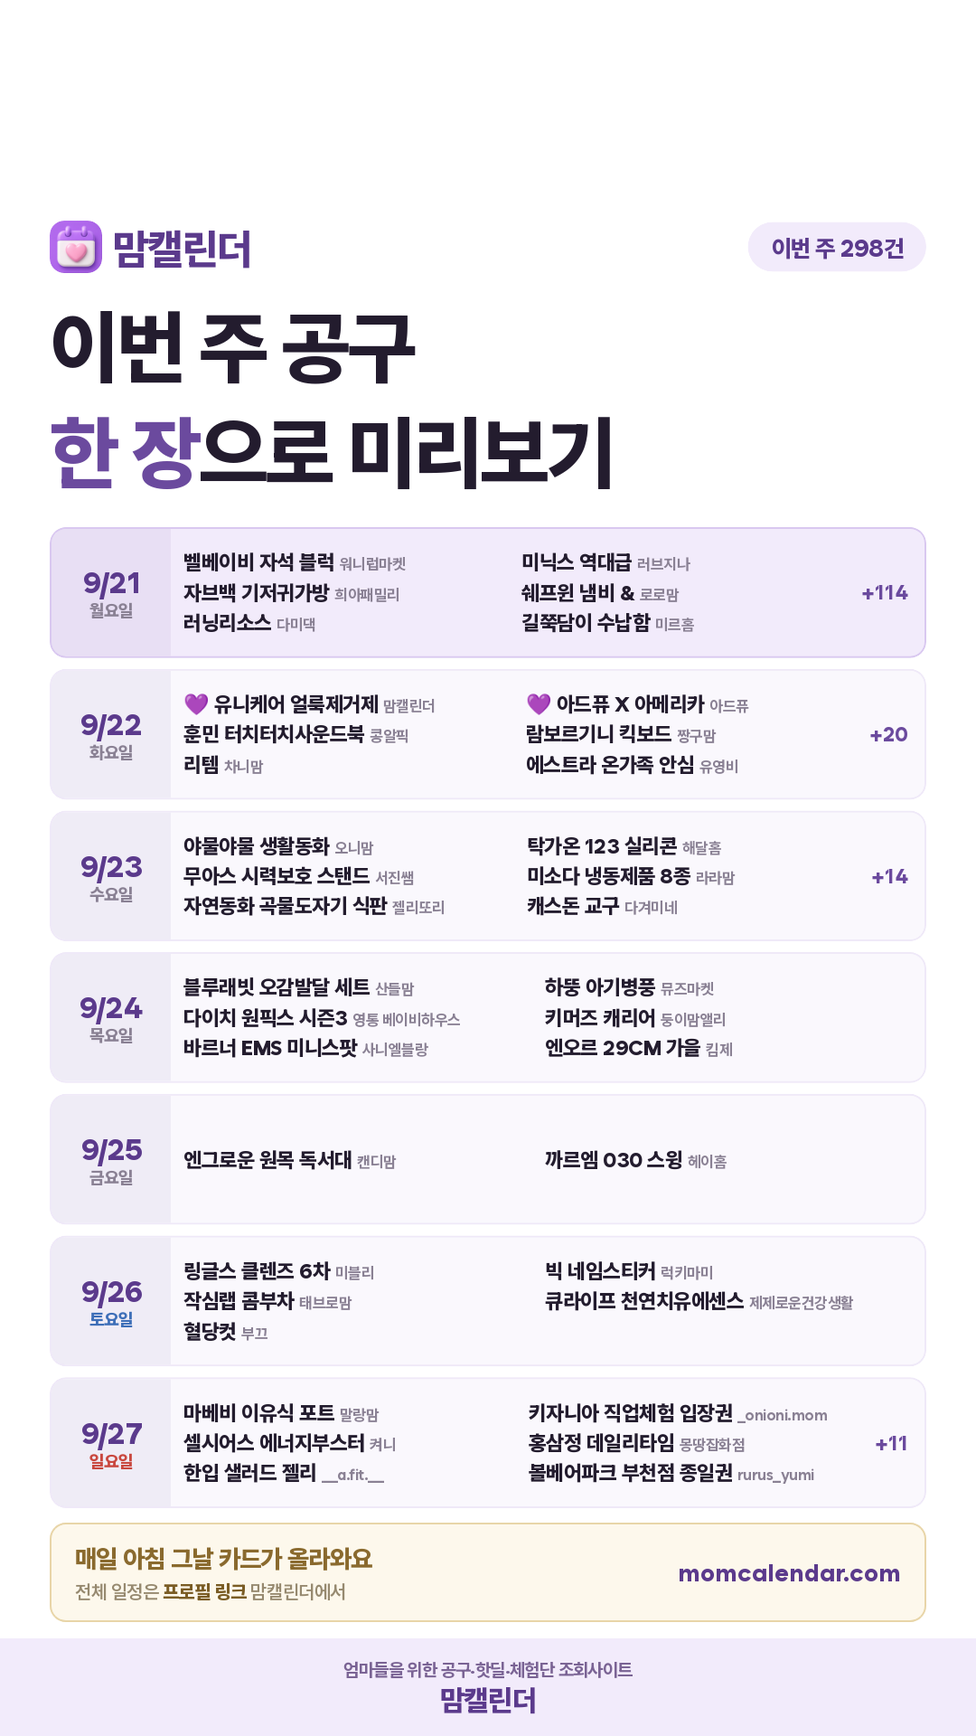
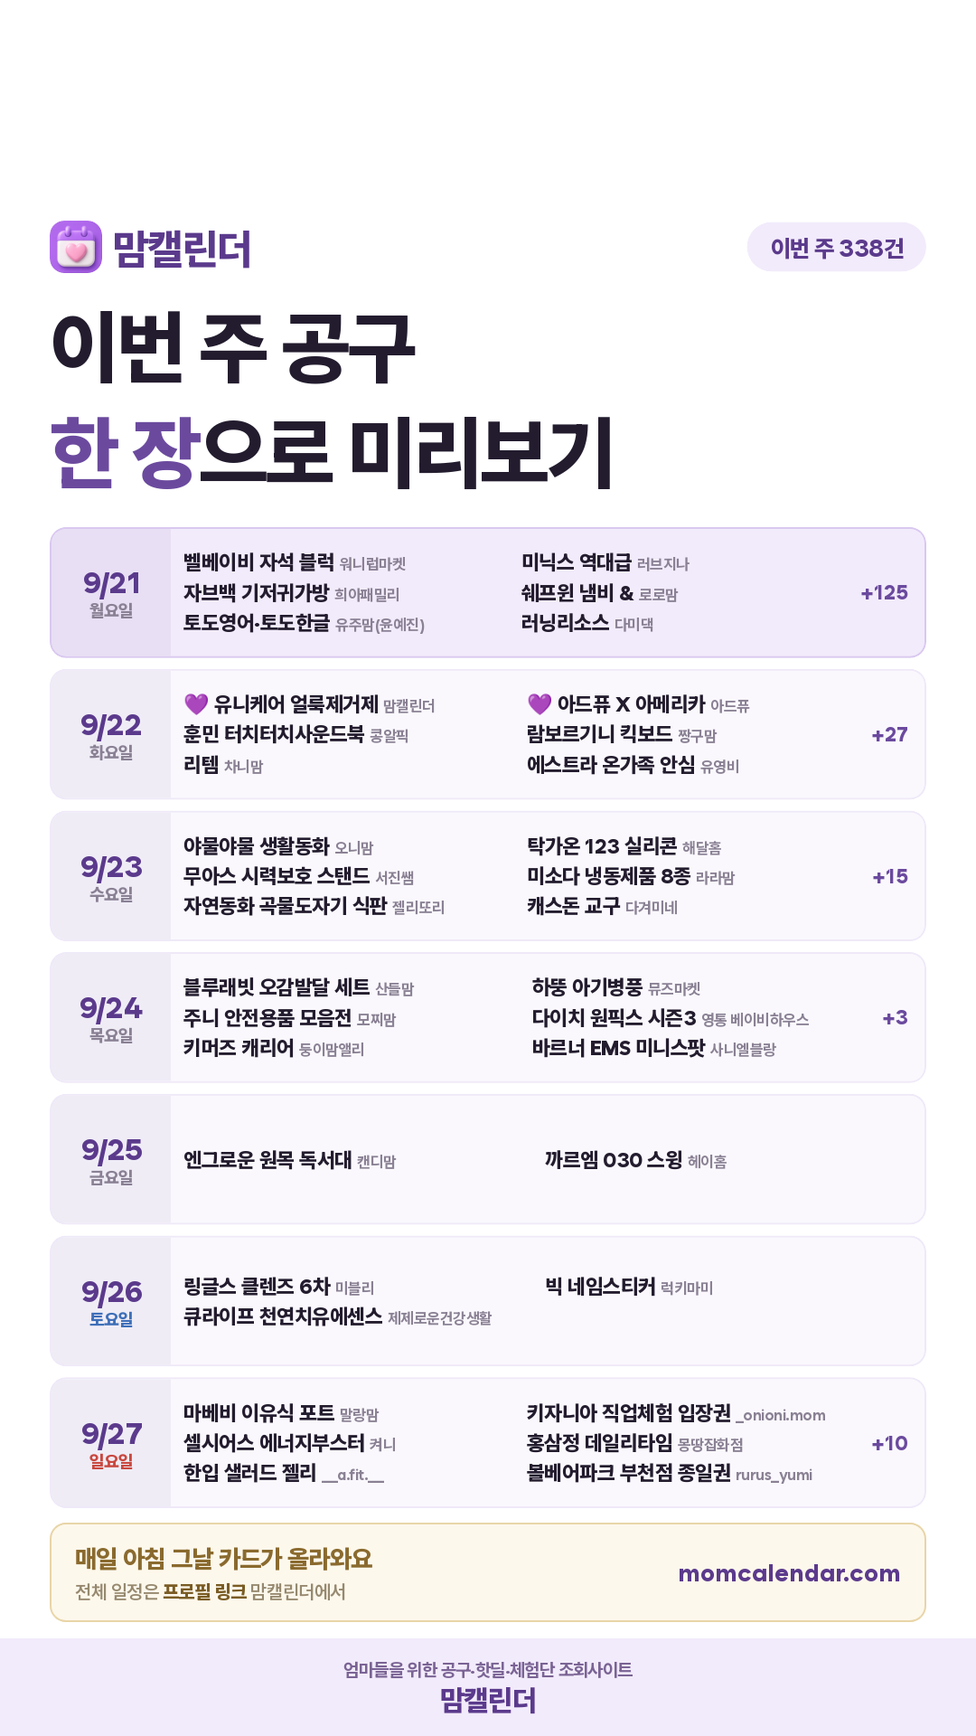
아침 인스타 카드 (2026-09-21)

diff --git a/daily/2026-09-21.html b/daily/2026-09-21.html
@@ -19,7 +19,7 @@ textarea{width:100%;height:260px;border:1px solid #E3DCEF;border-radius:10px;pad
 .todo p{font-size:12.5px;color:#6B6379;line-height:1.75;margin-top:6px}
 .todo a{color:#5B2E8C;font-weight:700}
 </style></head><body>
-<div class="hd"><div class="wrap"><h1>9월 21일(월) 인스타 카드</h1><p>주간예고 · week 298</p></div></div>
+<div class="hd"><div class="wrap"><h1>9월 21일(월) 인스타 카드</h1><p>주간예고 · week 338</p></div></div>
 <div class="wrap">
   
   <div class="card"><img src="./2026-09-21.png" alt="오늘 공구 카드"></div>
@@ -27,7 +27,7 @@ textarea{width:100%;height:260px;border:1px solid #E3DCEF;border-radius:10px;pad
   <div class="card">
     <textarea id="cap" readonly>월요일 아침 루틴 — 이번 주 공구 미리보기예요
 
-이번 주(9/21~9/27) 오픈 예정 298건
+이번 주(9/21~9/27) 오픈 예정 338건
 
 ━━━━━━━━━━━━━━
 
@@ -36,19 +36,19 @@ textarea{width:100%;height:260px;border:1px solid #E3DCEF;border-radius:10px;pad
 · 미닉스 역대급 — 러브지나
 · 자브백 기저귀가방 — 희아패밀리
 · 쉐프윈 냄비 &amp; 후라이팬 — 로로맘
+· 토도영어·토도한글 — 유주맘(윤예진)
 · 러닝리소스 — 다미댁
 · 길쭉담이 수납함 — 미르홈
+· 아기 안전장치 — 가을이네
 · 키즈위드 이야기시네마 플러스 그림자극장 — 우유맘
 · 로슬러실링팬 — 러브율홈
 · 보드게임 토들러 — 온이프홈
-· 토도영어·토도한글 — 유주맘(윤예진)
-· 아기 안전장치 — 가을이네
 · 브리테니커 호기심백과 — 명희홈쿡
 · 돌잡이시리즈 — 유림
 · 비지베어 A B세트 — 누누맘
 · 베투키 키즈 오메가3 — 다니맘
 · 휴비딕 네뷸라이저 — 또마맘
-…외 104건
+…외 115건
 
 🗓 9/22(화) 오픈
 · 유니케어 얼룩제거제 — 맘캘린더 @momcal_
@@ -66,8 +66,7 @@ textarea{width:100%;height:260px;border:1px solid #E3DCEF;border-radius:10px;pad
 · 킨즈n르베르 원목교구 — 리아곰
 · 주니 기저귀팬티 — 애프리
 · 리틀피기 가을 신상 런칭 — 두둥맘
-· 테라큐민 — 은하약사
-…외 10건
+…외 18건
 
 🗓 9/23(수) 오픈
 · 야물야물 생활동화 — 오니맘
@@ -85,15 +84,18 @@ textarea{width:100%;height:260px;border:1px solid #E3DCEF;border-radius:10px;pad
 · 주니 벨리곰 빨대컵 — 뚝딱맘
 · 주니 도라에몽 미니텀블러 1+1 — 주원맘
 · 베이비앙 국내생산 배변팬티 — 치즈맘
-…외 5건
+…외 6건
 
 🗓 9/24(목) 오픈
 · 블루래빗 오감발달 세트 — 산들맘
 · 하뚱 아기병풍 — 뮤즈마켓
+· 주니 안전용품 모음전 — 모찌맘
 · 다이치 원픽스 시즌3 에어 — 영통 베이비하우스
 · 키머즈 캐리어 — 둥이맘앨리
 · 바르너 EMS 미니스팟 — 사니엘블랑
 · 엔오르 29CM 가을 쇼케이스 — 킴제
+· 망고라이언 자존감 올림 동화 — 우니동동
+· 슈슈비 클립매트 인상 전 — 남다름
 
 🗓 9/25(금) 오픈
 · 엔그로운 원목 독서대 — 캔디맘
@@ -102,9 +104,7 @@ textarea{width:100%;height:260px;border:1px solid #E3DCEF;border-radius:10px;pad
 🗓 9/26(토) 오픈
 · 링글스 클렌즈 6차 마켓 — 미블리
 · 빅 네임스티커 — 럭키마미
-· 작심랩 콤부차 — 태브로맘
 · 큐라이프 천연치유에센스 — 제제로운건강생활
-· 혈당컷 — 부끄
 
 🗓 9/27(일) 오픈
 · 마베비 이유식 포트 — 말랑맘
@@ -119,7 +119,6 @@ textarea{width:100%;height:260px;border:1px solid #E3DCEF;border-radius:10px;pad
 · 에스테틱전용 아오와 선크림 &amp; 선에센스 — 령아홈트
 · 노엘로힐스 아기&amp;어린이 스킨케어 — 떠윤맘
 · 퓨리톡스 멀티 세정 티슈 7차 — 그집1303
-· 리틀콩 실내복 — 하온맘
 · 리슬립 올데이 케어세트 — 루니맘
 · 라운데이 행주 — 홈이분의일
 …외 2건
@@ -143,12 +142,12 @@ textarea{width:100%;height:260px;border:1px solid #E3DCEF;border-radius:10px;pad
 ⚠ 공구 일정은 판매자 사정에 따라 변경·조기마감될 수 있어요.
 
 #맘캘린더 #공구일정 #육아공구 #9월21일공구 #교구 #책육아 #공동구매 #육아템 #아기간식 #유아용품 #신학기준비 #살림템</textarea>
-    <div class="meta">2176자</div>
+    <div class="meta">2185자</div>
     <button class="btn btn2" onclick="cp('cap','캡션')">캡션 복사</button>
   </div>
   <div class="card">
     <div class="meta" style="margin:0 0 8px;font-weight:800;color:#5B2E8C">네이버 블로그용 (blog.naver.com/momcal) — 수정해서 쓰셔도 돼요</div>
-    <textarea id="btitle" style="height:54px">9월 21일(월) 9월 공구일정 진행중인 곳 | 레꼴뜨 무선·로슬러실링팬·리큅·미닉스·샤크 공구 오픈</textarea>
+    <textarea id="btitle" style="height:54px">9월 21일(월) 9월 공구일정 진행중인 곳 | 데코아르 에어건·레꼴뜨 무선·로슬러실링팬·리큅 공구 오픈</textarea>
     <button class="btn btn2" onclick="cp('btitle','블로그 제목')">블로그 제목 복사</button>
     <textarea id="bbody" style="margin-top:9px">
 
@@ -175,10 +174,10 @@ https://open.kakao.com/o/gr2kJhCh
 
 ─────────────
 
-9월 21일(월) 공구 일정이에요. 오늘 오픈하는 156건을 한 번에 모았어요.
-오늘 마감되는 공구도 137건 있으니 놓치지 마세요.
+9월 21일(월) 공구 일정이에요. 오늘 오픈하는 174건을 한 번에 모았어요.
+오늘 마감되는 공구도 161건 있으니 놓치지 마세요.
 
-■ 오늘 시작하는 공구 156건
+■ 오늘 시작하는 공구 174건
 
 [육아]
 · [밴밧] 호프 카미러 — 푸푸네 (~9/24 마감)
@@ -187,9 +186,10 @@ https://open.kakao.com/o/gr2kJhCh
 · 니도 — 라온 (~9/24 마감)
 · 데코아르 폴딩 미니 웨건 — 마드앤룸 (~9/24 마감)
 · 돌잡이 &amp; 빅키즈 — 송엘라 (~9/27 마감)
+· 돌잡이 시리즈 — 하온맘 (~9/27 마감)
 · 돌잡이 시리즈 — 이나마미 (~9/27 마감)
-· 돌잡이 전집 시리즈 — 뮤즈마켓 (~9/27 마감)
 · 돌잡이 전집 시리즈 — 뮤즈언니 (~9/27 마감)
+· 돌잡이 전집 시리즈 — 뮤즈마켓 (~9/27 마감)
 · 돌잡이·빅키즈 — 워니럽마켓 (~9/27 마감)
 · 돌잡이시리즈 — 유림 (~9/27 마감)
 · 러닝리소스 — 다미댁 (~9/24 마감)
@@ -198,6 +198,7 @@ https://open.kakao.com/o/gr2kJhCh
 · 룩트 킨디 — 다겨미네 (~9/24 마감)
 · 리라그루브 색연필 — 산들맘 (~9/24 마감)
 · 리라그루브·프로살림 자동연필깎이 — 나니맘 (~9/24 마감)
+· 마더케이 — 헤이다다 (~9/28 마감)
 · 마이리틀 경제동화 — 서점맘 (~9/28 마감)
 · 맘스보드 레브하우스 2차 — 젤리또리 (~9/24 마감)
 · 몸 속을 비춰봐 — 류둥이네 (~9/24 마감)
@@ -228,6 +229,8 @@ https://open.kakao.com/o/gr2kJhCh
 · 엑사이더 런닝바이크 15차 — 헬썬 (~9/25 마감)
 · 여원 창작동화 전집 — 쀼맘 (~9/28 마감)
 · 올림포스 가디언 — 리틀주니 (~9/23 마감)
+· 올유베베 — 태브로맘 (~9/23 마감)
+· 우리아이채수 — 따리따리 (~9/23 마감)
 · 자브백 기저귀가방 — 희아패밀리 (~9/24 마감)
 · 주니 실리콘 흡착 이유식 식기 — 무끼 (~9/24 마감)
 · 주니 안전템 모음 — 벨라하우스 (~9/23 마감)
@@ -247,40 +250,50 @@ https://open.kakao.com/o/gr2kJhCh
 · 핀덴 그림자동화·병풍·사운드카 — 미쁘주 (~9/28 마감)
 · 훈민 스티커북 — 콩알픽 (~9/27 마감)
 · 훈민 실사진 스티커북 — 소프트모노 (~9/24 마감)
+· 훈민 올어바웃 마이바디 + 뼈차트도안 — 도하맘 (~9/24 마감)
 · 휴비딕 네뷸라이저 — 또마맘 (~9/23 마감)
 
 [리빙]
+· 10월 인상 전 마지막, 엔에프락 — 솔트마망 (~9/24 마감)
 · AGK 노르딕 멀티 3종 밀폐용기 — 햇림 (~9/27 마감)
 · 갓템 캡슐 세탁세제 — 송송마켓 (~9/26 마감)
 · 경추회전+승모근지압+상/중/하 거북목 견인기 — 윤지쌤 (~9/27 마감)
+· 길이조절 팬 정리대 — 마마홈 (~9/24 마감)
 · 길쭉담이 수납함 — 미르홈 (~9/28 마감)
 · 노르딕슬립 침구 — 곰부인네 (~9/24 마감)
 · 도조메 비쉬 체크나이프 — 맘이가요 (~9/27 마감)
+· 디어커스 더스트라 크리너 — 마리에뜰 (~9/27 마감)
 · 라비킷 베개 모음전 — 모찌맘 (~9/24 마감)
 · 매직캔 쓰레기통 2차 — 다니맘 (~9/23 마감)
 · 바리바디 마사지스틱·볼 4차 — 매일부엌 (~9/24 마감)
 · 벨르썸 라치우드 도마 — 투찬이네 (~9/27 마감)
 · 쉐프윈 냄비 &amp; 후라이팬 — 로로맘 (~9/24 마감)
+· 스토피아 올스텐 욕실용품 — 밥설공주 (~9/24 마감)
 · 아이언애스 세탁세제 — 해피엘 (~9/24 마감)
 · 아클리브 보호필름 2차 — 르미뇽살림 (~9/24 마감)
+· 알텐바흐 메이우드 — 마리에뜰 (~9/27 마감)
 · 엔에프락 — 아무르제이 (~9/27 마감)
 · 올스텐 주방살림 Best — 류니 (~9/24 마감)
 · 위칙 소독 세탁세제·유연제 — 사는게예술 (~9/28 마감)
 · 윗클 — 책육아 우주맘 (~9/24 마감)
 · 윙플라 5차 — 아롱레시피 (~9/24 마감)
+· 일본 마나 기획전 — 헬룸 (~9/27 마감)
 · 주니 멀티컵 — 우유맘 (~9/23 마감)
 · 트로마츠 미세전류 칫솔 — 엄마로라 (~9/27 마감)
 · 프리파라 브루클린 반찬통 오늘의집 기획전 — 하얀쿡 (~9/30 마감)
 
 [식품]
 · 곡물도감 두유 그래놀라 — 서진쌤 (~9/24 마감)
+· 라꽁비에뜨 무염&amp;가염버터 — 또후니맘 (~9/27 마감)
 · 로지오가닉 배도라지즙 &amp; 아기보리차 — 쓸맘유진 (~9/24 마감)
+· 모두의육수 — 차차식탁 (~9/24 마감)
 · 무무칩 15차 — 시온이네 (~9/24 마감)
 · 무밀무설 — 다루세상 (~9/24 마감)
 · 밀키요 요거트 — 서연맘 (~9/24 마감)
 · 뼈 육수 — 푸드리셋 (~9/27 마감)
 · 오르조워터 — 베라킴 (~9/23 마감)
 · 올리브오일, 서해한과 — 리후랜드 대표 (~9/24 마감)
+· 우잇 특별 — 엘쓰맘 (~9/24 마감)
 · 위드잇 아이카레/아이짜장 — 명희홈쿡 (~9/27 마감)
 · 제로 소시지 2차 — 시니맘 (~9/24 마감)
 · 하늘마켓 추석 기획전 — 하늘 (~9/28 마감)
@@ -288,8 +301,8 @@ https://open.kakao.com/o/gr2kJhCh
 · 화덕브레드 — minjoy_____ (~9/25 마감)
 
 [건강]
-· 곰보배추시럽 — 김밀키 (~9/30 마감)
 · 곰보배추시럽 — 러블리맘 (~9/27 마감)
+· 곰보배추시럽 — 김밀키 (~9/30 마감)
 · 그로우뉴 데이프로바 — 돼지수 (~9/23 마감)
 · 나잇밤 — 아디언니 (~9/30 마감)
 · 녹십자 베르베린 인텐스 — 오늘약사 (~9/27 마감)
@@ -297,6 +310,7 @@ https://open.kakao.com/o/gr2kJhCh
 · 더블핏 유산균 — 자신있는약상담 (~9/27 마감)
 · 라이트컷 — 곰부인네 (~9/28 마감)
 · 라인쏙 파우더 — 쇼니룸 (~9/23 마감)
+· 리포좀 글루타치온 — 약사비책 (~9/30 마감)
 · 밀리윌리 초유칼마디K2 — 여울맘 (~9/23 마감)
 · 바맘 배도라지즙 특가 — 윤슬라멜맘 (~9/24 마감)
 · 버티젠 — 달달콩 (~9/24 마감)
@@ -321,11 +335,13 @@ https://open.kakao.com/o/gr2kJhCh
 · 홈쇼핑 방영 세인트 프랑 트리트먼트 크림 — coco.han (~9/24 마감)
 
 [가전]
+· 데코아르 에어건 — 시크드 (~9/27 마감)
 · 레꼴뜨 무선 만능초퍼 — 블루밍다다 (~9/23 마감)
 · 레꼴뜨 무선 초퍼 — 베러심플 (~9/24 마감)
 · 로슬러실링팬 — 러브율홈 (~9/24 마감)
 · 리큅 식품건조기 3차 — 묘식당 (~9/27 마감)
 · 미닉스 역대급 — 러브지나 (~9/24 마감)
+· 비쎌 스팀청소기 — 포유홈 (~9/23 마감)
 · 샤크 LC351청소기 — 밀커블 (~9/27 마감)
 · 세척간편 이지클린 가습기 — 수아빈홈 (~9/24 마감)
 · 아토케어 침구청소기 — 우아맘 (~9/24 마감)
@@ -351,24 +367,30 @@ https://open.kakao.com/o/gr2kJhCh
 [인테리어]
 · 맘스보드 책상 — eeodlf (~9/23 마감)
 · 워셔블 러그 — 카루셀리 (~9/27 마감)
+· 워셔블 사계절 러그 — 마마홈 (~9/24 마감)
 · 피보트롤리 — 또비앙 (~9/23 마감)
 
 [반려동물]
 · 으뜸 배변패드 — 개엄마 (~9/27 마감)
 
-■ 오늘 마감하는 공구 137건
+■ 오늘 마감하는 공구 161건
+· 1-2만원대 예쁜 아기옷 — 비나맘
 · 1++ 언양·양념불고기 — ye.96.ye
 · 1만원대 차렵이불 — 채집
 · 247 프레시팩 — 소프트모노
+· 26 호주 오즈웨어 UGG — 유노맘
 · 3만원대 자동센서 휴지통 — 채집
 · DK2 메타리포좀 마그네슘 부스터 — 자신있는약상담
 · Pizza and Taco &amp; Boris 세트 — 로이데일리
 · YDY 베르베린 파이토좀 — 명훈약사
+· 감성을 담은 테이블 웨어 플라또 — 마이리틀타이거
+· 고마운 마음 전하기에 좋은 선물, 오란다 — 션마미마켓
 · 김미떡 — 현영초이스
 · 김미떡 9차 — 밤줌미네
 · 까르엠 모듈 스윙소파 — 살구홈
 · 까이유 NEW 오리지널 보드북 영·한 — 또마맘
 · 꼼데가르송 레드하트 니트 &amp; 가디건 — 뽀이맘
+· 난각 1번 무항생제 계란 — 레이첼꽁
 · 난각1번 유정란 — 장솔비
 · 난각번호 1번 달걀 — 봄주부
 · 내리미 해열크림 — 월간서숲
@@ -386,6 +408,7 @@ https://open.kakao.com/o/gr2kJhCh
 · 땡초맛김 — 진실
 · 라온킴 수제 이유식 큐브 — 에듀맘
 · 레드루트 세탁&amp;주방세제 모음전 — 레이첼꽁
+· 룰라러브 천연해면 — 뭉릉도원이네
 · 룸므 대용량 텀블러 — 송엘라
 · 르베르 스핀360 유모카·트라이크 — 누누홈
 · 리라그루브·울리 문구 — 꽃비니
@@ -402,11 +425,14 @@ https://open.kakao.com/o/gr2kJhCh
 · 미태그 듀얼 위치추적기 — 김선진
 · 미태그 위치추적기 — 이안마미
 · 바겐슈타이거 스텐박스 — 맘캘린더
+· 바나코 룸슬리퍼 — 헬룸
+· 바예호 엑스트라버진 올리브 오일 — 쥬홈
 · 베베쿡 이유식기 최초 — 모찌맘
 · 베비몽 드라이빙백 — 조이
 · 베비몽 드라이빙백 &amp; 맥킹덤 미니 — 쁨마미
 · 베비몽 소프트 말랑블럭 — 트윙클멜로우
 · 보르딘 더치커피 4차 — 몰리짱
+· 보리굴비 — 개엄마
 · 보리굴비 — 부끄
 · 봄동맘 유아 캡슐세제 — 아토네
 · 붓기차 베라수 &amp; 산후조리 황후보감 — 서안맘
@@ -417,29 +443,37 @@ https://open.kakao.com/o/gr2kJhCh
 · 빠이염 — 도치맘
 · 새싹보리굴비 — 밤줌미네
 · 서해한과 — 드엘리사
+· 손으로 만드는 특별한 경험 송편 만들기 키트 — 마이리틀타이거
 · 송편만들기 키트 명절 기획 — 도다미네
 · 슈슈아띠 B급 할인전 — 마마홈
 · 스노우키즈 물감놀이 — 워니메이
+· 스토피아 스텐 기획전 — 다다맘
 · 스파톤 프리미엄 철분제 — 하늘
+· 스프레이오일 &amp; 올리브유, 현미유 — 희야
 · 시서례 국어문제집 — 찬우맘
 · 시크 아이폴드2 — 우니동동
 · 실버스타 무연마 316 찜기 — 살림구조대
 · 심플리티 킥보드 — 해모비
 · 쌀보리 가을 실내복 겸 등원복 — 무끼
 · 쌍화환 — 강약사
+· 씨밀렉스 이불 보관함 — 에루홈
 · 아기상어 &amp; 뽀로로 따라그리기 — 선유맘
 · 아이팜 세면대 — 애프리
 · 알텐바흐 프라이팬·엑스쿠첸 316Ti 저압냄비 — 구아카
 · 어스메이드 턱받이 — 육아정보
+· 언양불고기 — 길쭉이네
 · 언어발달의 치트키, 베베핑퐁 낱말카드 — 뚜뚜맘
 · 에그스쿨 Pre-K 유치부 프로그램 — 하멍스맘
 · 에끌 루즈핏 모달 실내복 — 장소정
 · 에피큐리언 도마 — 게으른김주부
 · 엘푸엘레 유기농 햇올리브오일 6차 — lazykimjubu
+· 열 내리미 크림 ~ 까지 — 묭마미
 · 예가한복 아기한복 — 켈리맘
 · 오다와라야 갈릭 칠리오일 — 알맹이네
+· 오르다 연산 — 아윤맘
 · 우아클 키즈 칼마디k2 오메가3 — 우아띵
 · 우아한김 — 월간서숲
+· 우아한김 모음전 — 하나맘
 · 욱이네 천연재료 소갈비찜 — 다영
 · 원목수카드/120판/곱셈판/몬테소리매트 — 종달맘
 · 유모차 — 산들맘
@@ -447,6 +481,7 @@ https://open.kakao.com/o/gr2kJhCh
 · 의약외품 모기기피제 — 도연
 · 이뮨킹 4차 — 약파더
 · 이지앤프리 에어클립 — 해피엘
+· 이키 ikii 쌀보리 실내복 — 세상홈
 · 이태리프리미엄올오+발사믹 — 알로아홈
 · 자리 차지 않는 2구 접이식 인덕션 — 케이에이치집
 · 저스트글로우 베르베린 — 삐약약사
@@ -460,16 +495,20 @@ https://open.kakao.com/o/gr2kJhCh
 · 초등 첫 AI 문해력 신문 — 위쓰담북
 · 추석연휴 송편&amp;만두 만들기 — 카롱맘
 · 치밀 페로제도 연어 — 최하림
+· 캐노피 기저귀갈이대 LIVE — 말랑허니
 · 캐치콜 — 브론즈
 · 케이투미네랄부스터 — 딸기약사
 · 코코씸 코코넛 밀크 4종 — 서브마켓
 · 콤마씨 빈티지 스트라이프 이불커버 — 사는게예술
+· 쿠자 쿠도 — ye.96.ye
 · 클라 캡슐세제 모음전 3차 — 지지마마
+· 클리어 하드 케이스 파우치 — 밍융맘
 · 클릭탭 &amp; 스티커 소화기 — 에루홈
 · 키스반더 김치 — 브론즈
 · 키움 콕콕콕 사운드벽보 7종 — 이현찰퐁맘
 · 킨즈 르베르 오징어팝콘 장난감 — 리아곰
 · 킨즈 르베르 유모카 4차 — 산들맘
+· 타고가요 캐리어 NEW 클라우드 모델 — 워니럽마켓
 · 탁가온 이유식기 — 우리우
 · 태국망고 추석 선물세트 — 희야
 · 테라큐민 — 릴리 김소정
@@ -480,7 +519,9 @@ https://open.kakao.com/o/gr2kJhCh
 · 패턴형 현관 코일매트 — 멋쓰랩
 · 팻랩 패치 — coco.han
 · 포포라보 — 하이하이민
+· 퓨리톡스 세정티슈 — 나도살림
 · 프라테피에트로 올리브오일 — 런쿡
+· 프레 엑소티온 파우더 앰플 — 봉선아
 · 플라팜 뉴코코맘 회전 아기행거 — 우유맘
 · 플레종 오브제핏과 스냅톡 정리함 — 홈앤홈
 · 피타니 유기농 컬리 케일 — 약사비책
@@ -495,14 +536,14 @@ https://open.kakao.com/o/gr2kJhCh
 · 휘슬러 히스토리톡톡 — 양아름
 · 힐텀 제왕절개 흉터관리 — gooomzybusy
 
-■ 오늘의 브랜드: 레꼴뜨
-· 레꼴뜨 공구는 인스타 셀러들이 기간을 정해 여는 공동구매예요. 최근에는 수리테이블, 베러심플, 블루밍다다 님이 진행했어요.
+■ 오늘의 브랜드: 데코아르
+· 데코아르 공구는 인스타 셀러들이 기간을 정해 여는 공동구매예요. 최근에는 윤우가자라는집, 마드앤룸, 시크드 님이 진행했어요.
 · 가격은 오픈일에 셀러 계정 공지로 공개돼요. 같은 제품이라도 셀러·구성에 따라 조금씩 달라서, 공지에서 확인하는 게 가장 정확해요.
-· 이번에 놓쳤다면 너무 아쉬워하지 마세요. 레꼴뜨 공구는 보통 일정 간격을 두고 다시 열려요. 전체 일정은 여기서 → https://momcalendar.com
+· 이번에 놓쳤다면 너무 아쉬워하지 마세요. 데코아르 공구는 보통 일정 간격을 두고 다시 열려요. 전체 일정은 여기서 → https://momcalendar.com
 
 ※ 일정과 가격은 셀러 사정으로 바뀔 수 있어요. 결제 전에 셀러 계정 공지를 꼭 다시 확인해 주세요.
 
-#공구일정 #인스타공구 #인스타공구일정 #공동구매 #오늘의공구 #육아공구 #육아템 #공구모음 #레꼴뜨공구 #로슬러실링팬공구 #리큅공구 #미닉스공구 #샤크공구 #세척간편공구 #아토케어공구 #음식물처리기의공구</textarea>
+#공구일정 #인스타공구 #인스타공구일정 #공동구매 #오늘의공구 #육아공구 #육아템 #공구모음 #데코아르공구 #레꼴뜨공구 #로슬러실링팬공구 #리큅공구 #미닉스공구 #비쎌공구 #샤크공구 #세척간편공구</textarea>
     <button class="btn" onclick="cp('bbody','블로그 본문 전체')">블로그 본문 전체 복사 (태그 포함)</button>
     <div class="meta">순서: 사진 저장 → 블로그 앱 글쓰기 → 제목 붙여넣기 → 본문 붙여넣기 → 본문 맨 위에 사진 추가 → 발행. 끝의 #태그들은 자동으로 태그가 돼요</div>
   </div>

diff --git a/daily/today.html b/daily/today.html
@@ -9,6 +9,6 @@ h1{font-size:17px;color:#4A1A78;padding:14px 0 10px;margin:0}
 img{width:100%;max-width:540px;display:block;margin:0 auto;border-radius:12px;box-shadow:0 2px 12px rgba(96,32,144,.12)}
 p{font-size:12.5px;color:#8A8A8A;padding:12px}</style></head><body>
 <h1>9/21(월) 오늘 공구 캘린더</h1>
-<img src="./today.png?v=1789948668361" alt="9/21(월) 오늘 공구 캘린더">
+<img src="./today.png?v=1789950537353" alt="9/21(월) 오늘 공구 캘린더">
 <p>매일 아침 자동으로 새로 그려집니다 · <a href="https://momcalendar.com">맘캘린더</a></p>
 </body></html>

diff --git a/daily/index.html b/daily/index.html
@@ -1,1 +1,1 @@
-<!DOCTYPE html><meta charset="UTF-8"><meta http-equiv="refresh" content="0;url=./2026-09-28.html">
+<!DOCTYPE html><meta charset="UTF-8"><meta http-equiv="refresh" content="0;url=./2026-09-21.html">
